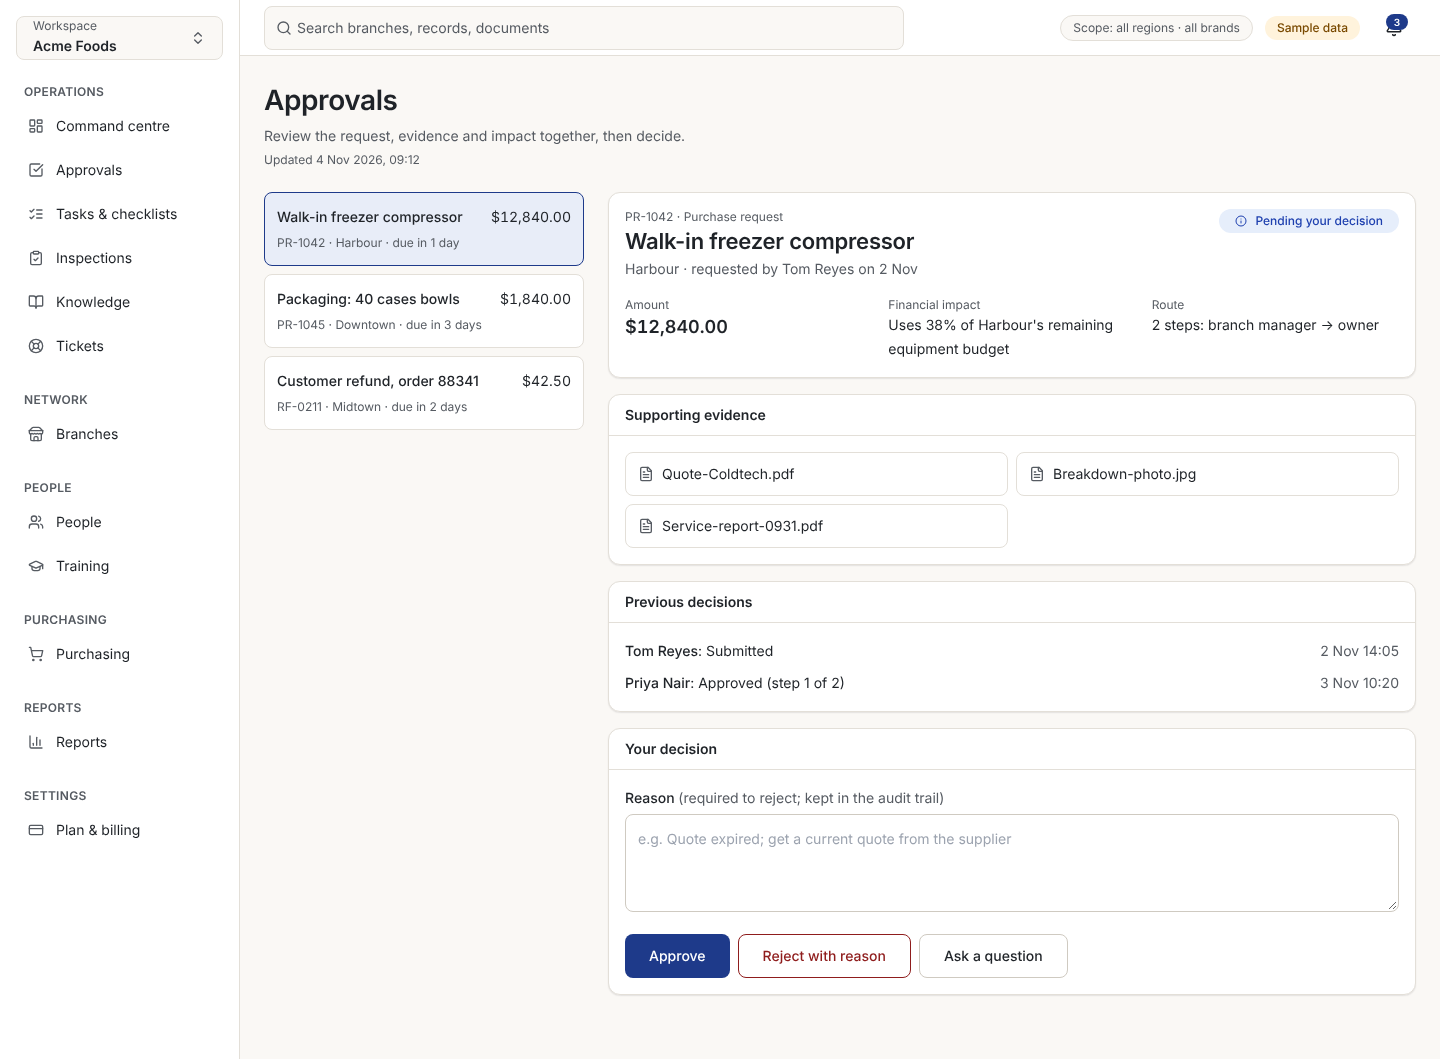
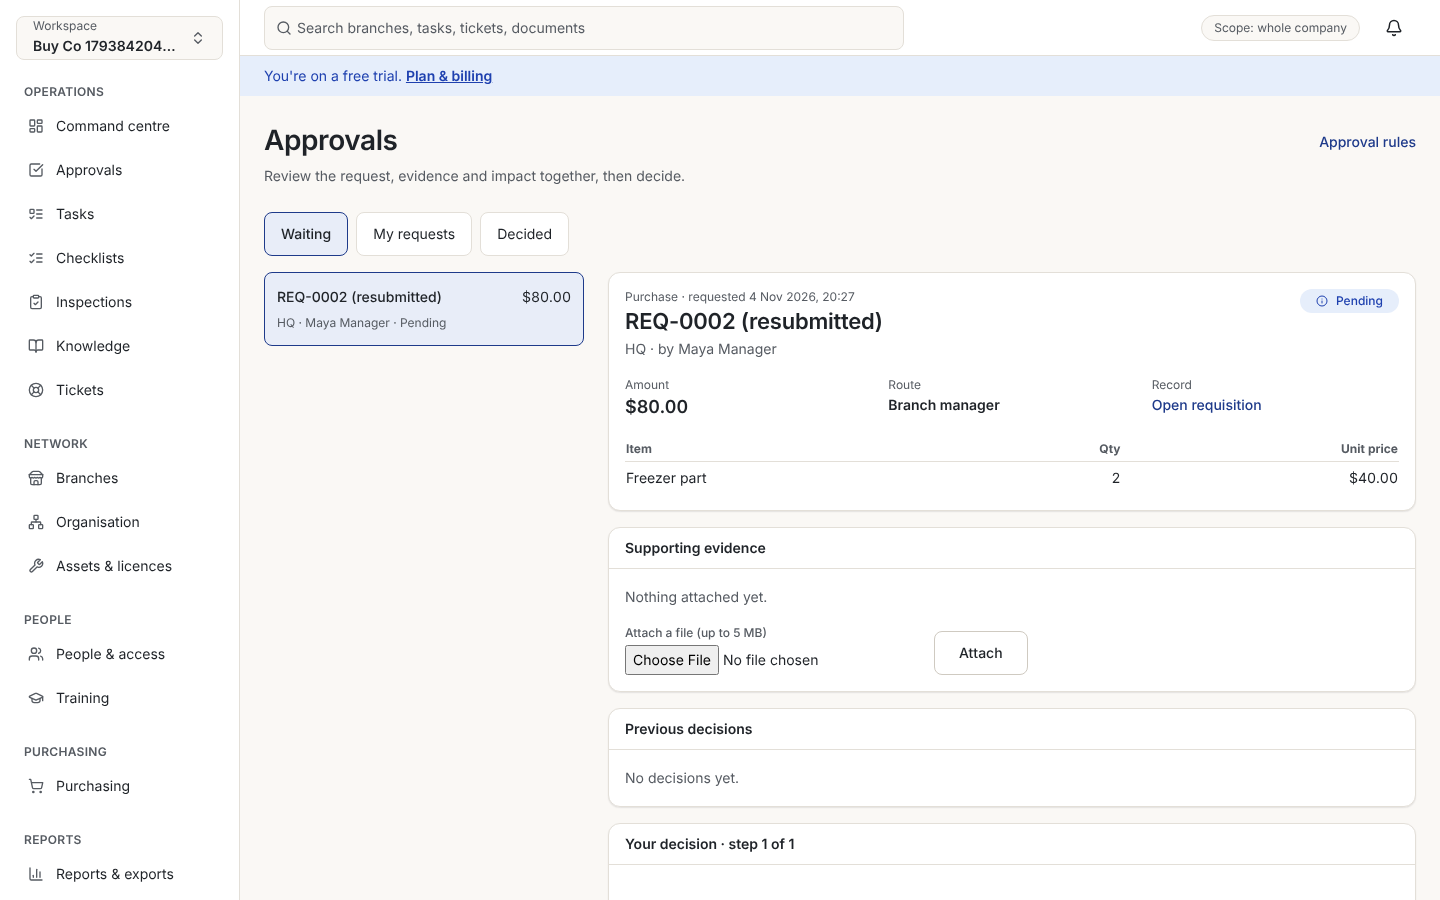
Real screenshots, closure test fix, docs
Claude-Session: https://claude.ai/code/session_01BU8Rb43bzjs7Nb7xPxDNFn

diff --git a/README.md b/README.md
@@ -13,6 +13,8 @@ Scope and design direction: [`docs/project-brief.md`](docs/project-brief.md) · 
 
 **Not built** (see the release plan): franchise applicant pipeline and agreements, opening projects, stock ledger, configuration studio (custom forms and workflows), integrations and webhooks, supplier and contractor portals, offline inspections, SSO, payroll or HR, and industry-specific modules. The interface is English only; money and dates follow the company's currency and time zone.
 
+Screens: [dashboard](docs/screens/dashboard.png) · [approvals](docs/screens/approvals.png) · [orders](docs/screens/purchasing-order.png) · [billing](docs/screens/billing.png) · [roles](docs/screens/roles.png) · [phone](docs/screens/dashboard-phone.png)
+
 ## Run it
 ```bash
 cp .env.example .env            # set POSTGRES_PASSWORD and CRON_SECRET
